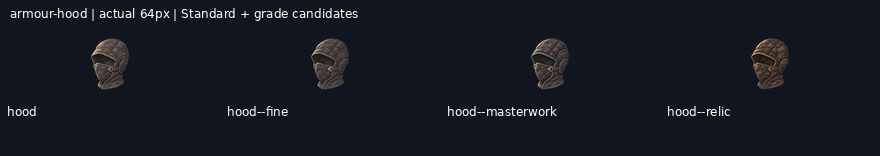
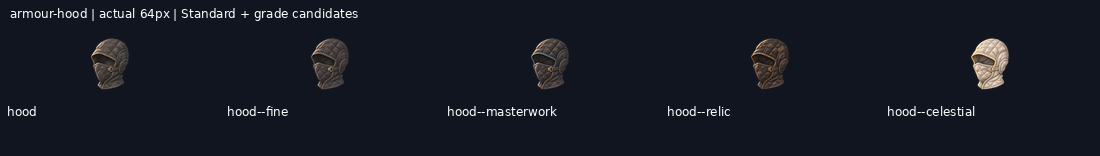
art: draw armour-hood--celestial grade candidate

diff --git a/art/_archive/gear/2026-11-19-kept-blade-grades/HANDOFF.md b/art/_archive/gear/2026-11-19-kept-blade-grades/HANDOFF.md
@@ -1,6 +1,6 @@
 # Gear grade candidates
 
-**132/208 grade candidates delivered** on `art/2026-11-19-kept-blade-grades`. Shared mailbox: https://github.com/leonpentastorm/Project-Heaven-Cry/issues/3 . See claim.json for this lane’s current Standards. Released overlapping blades reuse12 peer candidates, with3 local alternatives archived.
+**133/208 grade candidates delivered** on `art/2026-11-19-kept-blade-grades`. Shared mailbox: https://github.com/leonpentastorm/Project-Heaven-Cry/issues/3 . See claim.json for this lane’s current Standards. Released overlapping blades reuse12 peer candidates, with3 local alternatives archived.
 
 Leon requested continuous candidate production; proof approval is not fabricated. All candidates remain review-candidate, production_approved:false, implementation_ready:false, with outline.review_required:true. Exact outline is measured, never asserted unless the masks match. Per-image registration is uniform scaling/translation only, without warp, silhouette masks, filled pixels or code-drawn substitutes. The generated native remains untouched.
 
@@ -10,12 +10,12 @@ Tomorrow: fetch this branch and develop safely, read the latest issue 3 comments
 
 Peer audit: [coordination/peer-audit-2026-11-19.md](coordination/peer-audit-2026-11-19.md). Peer58 masters/232 exports and12 canonical imports are integrated with versioned alpha<8 cleanup; originals are retained. See coordination/peer-import-v2/manifest.json and post-catalog VALIDATION.json (strict margins pass, solid alpha unchanged). Peer quota resets20 November2026 at09:45:39 Bangkok time; this does not establish this session’s quota.
 
-Remaining: weapon-ork_machete--masterwork, weapon-ork_machete--relic, weapon-ork_machete--celestial, weapon-war_axe--fine, weapon-war_axe--masterwork, weapon-war_axe--relic, weapon-war_axe--celestial, weapon-parlour_pistol--fine, weapon-parlour_pistol--masterwork, weapon-parlour_pistol--relic, weapon-parlour_pistol--celestial, weapon-lever_carbine--fine, weapon-lever_carbine--masterwork, weapon-lever_carbine--relic, weapon-lever_carbine--celestial, weapon-sawn_off--fine, weapon-sawn_off--masterwork, weapon-sawn_off--relic, weapon-sawn_off--celestial, weapon-coach_gun--fine, weapon-coach_gun--masterwork, weapon-coach_gun--relic, weapon-coach_gun--celestial, weapon-legion_bullpup--fine, weapon-legion_bullpup--masterwork, weapon-legion_bullpup--relic, weapon-legion_bullpup--celestial, weapon-whisper_smg--fine, weapon-whisper_smg--masterwork, weapon-whisper_smg--relic, weapon-whisper_smg--celestial, armour-hood--celestial, armour-blackout_hood--fine, armour-blackout_hood--masterwork, armour-blackout_hood--relic, armour-blackout_hood--celestial, armour-spotters_monocle--fine, armour-spotters_monocle--masterwork, armour-spotters_monocle--relic, armour-spotters_monocle--celestial, armour-sight_visor--fine, armour-sight_visor--masterwork, armour-sight_visor--relic, armour-sight_visor--celestial, armour-breather--fine, armour-breather--masterwork, armour-breather--relic, armour-breather--celestial, armour-sealed_visor--fine, armour-sealed_visor--masterwork, armour-sealed_visor--relic, armour-sealed_visor--celestial, armour-breacher_plate--fine, armour-breacher_plate--masterwork, armour-breacher_plate--relic, armour-breacher_plate--celestial, armour-mesh_undersuit--fine, armour-mesh_undersuit--masterwork, armour-mesh_undersuit--relic, armour-mesh_undersuit--celestial, armour-rig_belt--fine, armour-rig_belt--masterwork, armour-rig_belt--relic, armour-rig_belt--celestial, armour-field_trousers--fine, armour-field_trousers--masterwork, armour-field_trousers--relic, armour-field_trousers--celestial, armour-tactical_gloves--fine, armour-tactical_gloves--masterwork, armour-tactical_gloves--relic, armour-tactical_gloves--celestial, armour-jump_boots--fine, armour-jump_boots--masterwork, armour-jump_boots--relic, armour-jump_boots--celestial.
+Remaining: weapon-ork_machete--masterwork, weapon-ork_machete--relic, weapon-ork_machete--celestial, weapon-war_axe--fine, weapon-war_axe--masterwork, weapon-war_axe--relic, weapon-war_axe--celestial, weapon-parlour_pistol--fine, weapon-parlour_pistol--masterwork, weapon-parlour_pistol--relic, weapon-parlour_pistol--celestial, weapon-lever_carbine--fine, weapon-lever_carbine--masterwork, weapon-lever_carbine--relic, weapon-lever_carbine--celestial, weapon-sawn_off--fine, weapon-sawn_off--masterwork, weapon-sawn_off--relic, weapon-sawn_off--celestial, weapon-coach_gun--fine, weapon-coach_gun--masterwork, weapon-coach_gun--relic, weapon-coach_gun--celestial, weapon-legion_bullpup--fine, weapon-legion_bullpup--masterwork, weapon-legion_bullpup--relic, weapon-legion_bullpup--celestial, weapon-whisper_smg--fine, weapon-whisper_smg--masterwork, weapon-whisper_smg--relic, weapon-whisper_smg--celestial, armour-blackout_hood--fine, armour-blackout_hood--masterwork, armour-blackout_hood--relic, armour-blackout_hood--celestial, armour-spotters_monocle--fine, armour-spotters_monocle--masterwork, armour-spotters_monocle--relic, armour-spotters_monocle--celestial, armour-sight_visor--fine, armour-sight_visor--masterwork, armour-sight_visor--relic, armour-sight_visor--celestial, armour-breather--fine, armour-breather--masterwork, armour-breather--relic, armour-breather--celestial, armour-sealed_visor--fine, armour-sealed_visor--masterwork, armour-sealed_visor--relic, armour-sealed_visor--celestial, armour-breacher_plate--fine, armour-breacher_plate--masterwork, armour-breacher_plate--relic, armour-breacher_plate--celestial, armour-mesh_undersuit--fine, armour-mesh_undersuit--masterwork, armour-mesh_undersuit--relic, armour-mesh_undersuit--celestial, armour-rig_belt--fine, armour-rig_belt--masterwork, armour-rig_belt--relic, armour-rig_belt--celestial, armour-field_trousers--fine, armour-field_trousers--masterwork, armour-field_trousers--relic, armour-field_trousers--celestial, armour-tactical_gloves--fine, armour-tactical_gloves--masterwork, armour-tactical_gloves--relic, armour-tactical_gloves--celestial, armour-jump_boots--fine, armour-jump_boots--masterwork, armour-jump_boots--relic, armour-jump_boots--celestial.
 
 Service-rejected requests (do not repeatedly resubmit): weapon-coach_gun--fine, weapon-legion_bullpup--fine, weapon-lever_carbine--fine, weapon-ork_machete--masterwork, weapon-parlour_pistol--fine, weapon-sawn_off--fine, weapon-war_axe--fine, weapon-whisper_smg--fine.
 
 Waiting on rejected prerequisites: weapon-coach_gun--celestial, weapon-coach_gun--masterwork, weapon-coach_gun--relic, weapon-legion_bullpup--celestial, weapon-legion_bullpup--masterwork, weapon-legion_bullpup--relic, weapon-lever_carbine--celestial, weapon-lever_carbine--masterwork, weapon-lever_carbine--relic, weapon-ork_machete--celestial, weapon-ork_machete--relic, weapon-parlour_pistol--celestial, weapon-parlour_pistol--masterwork, weapon-parlour_pistol--relic, weapon-sawn_off--celestial, weapon-sawn_off--masterwork, weapon-sawn_off--relic, weapon-war_axe--celestial, weapon-war_axe--masterwork, weapon-war_axe--relic, weapon-whisper_smg--celestial, weapon-whisper_smg--masterwork, weapon-whisper_smg--relic.
 
-Ready independent next steps, in queue order: armour-hood--celestial, armour-blackout_hood--fine, armour-spotters_monocle--fine, armour-sight_visor--fine, armour-breather--fine, armour-sealed_visor--fine, armour-breacher_plate--fine, armour-mesh_undersuit--fine, armour-rig_belt--fine, armour-field_trousers--fine, armour-tactical_gloves--fine, armour-jump_boots--fine. Other pending grades follow their preceding grade.
+Ready independent next steps, in queue order: armour-blackout_hood--fine, armour-spotters_monocle--fine, armour-sight_visor--fine, armour-breather--fine, armour-sealed_visor--fine, armour-breacher_plate--fine, armour-mesh_undersuit--fine, armour-rig_belt--fine, armour-field_trousers--fine, armour-tactical_gloves--fine, armour-jump_boots--fine. Other pending grades follow their preceding grade.
 
 Runtime handoff: implementation_ready:false records review status but does not gate the web asset builder. The builder emits grade asset keys; the current UI gear resolver still needs grade-aware selection. Do not claim that runtime grade selection is implemented by these art deliveries.
